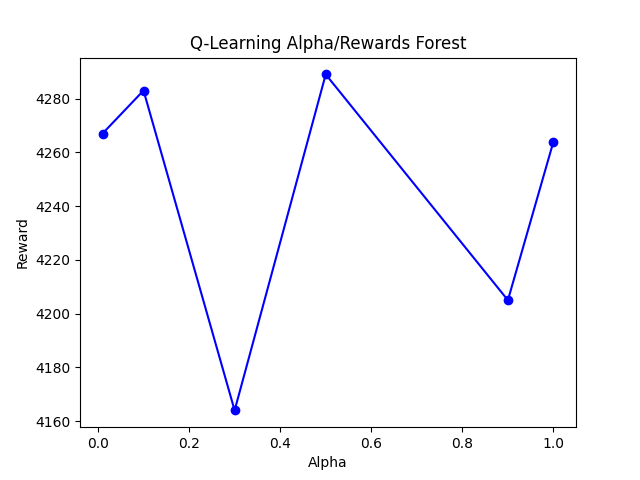
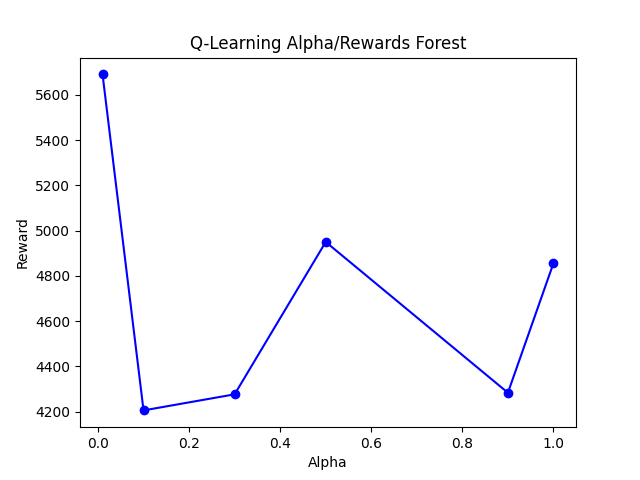
update figures

diff --git a/mdps/q_forest.py b/mdps/q_forest.py
@@ -4,12 +4,15 @@ from hiive.mdptoolbox.mdp import QLearning
 
 P, R = mdptoolbox.example.forest(
     S=500,
-    r1=4,
+    r1=100,
     r2=2,
     p=0.1,
     is_sparse=False
 )
-disc = [0.1, 0.3, 0.5, 0.7, 0.9, 2.1, 4, 5, 10]
+disc = [0.1, 0.3, 0.5, 0.7, 0.9]
+# ep = [1.0, 0.9, 0.5, 0.3, 0.1, 0.01]
+ep = [0.00099, 0.001, 0.005, 0.01, 0.03]
+alpha = [1.0, 0.9, 0.5, 0.3, 0.1, 0.01]
 
 results = []
 for d in disc:
@@ -34,16 +37,15 @@ plot_rewards(
     'q_learning_discount_rewards_forest', 'Discount'
 )
 
-ep = [1.0, 0.9, 0.5, 0.3, 0.1, 0.01]
 
 results = []
 for e in ep:
     ql = QLearning(
         P, # transitions
         R, # rewards
-        0.9, # discount
+        0.7, # discount
         alpha=0.1, alpha_decay=0.99, alpha_min=0.001,
-        epsilon=e, epsilon_min=0.1, epsilon_decay=0.99,
+        epsilon=e, epsilon_min=0.000001, epsilon_decay=0.99,
         n_iter=10000, skip_check=False, iter_callback=None,
         run_stat_frequency=None
     )
@@ -59,14 +61,13 @@ plot_rewards(
     'q_learning_epsilon_rewards_forest', 'Epsilon'
 )
 
-alpha = [1.0, 0.9, 0.5, 0.3, 0.1, 0.01]
 
 results = []
 for a in alpha:
     ql = QLearning(
         P, # transitions
         R, # rewards
-        0.9, # discount
+        0.7, # discount
         alpha=a, alpha_decay=0.99, alpha_min=0.001,
         epsilon=0.5, epsilon_min=0.1, epsilon_decay=0.99,
         n_iter=10000, skip_check=False, iter_callback=None,

diff --git a/mdps/q_other.py b/mdps/q_other.py
@@ -6,7 +6,9 @@ from helpers.plot_graphs import plot_rewards
 ex = OpenAI_MDPToolbox('FrozenLake-v0', False)
 P = ex.P
 R = ex.R
-disc = [0.1, 0.3, 0.5, 0.7, 0.9, 2.1, 4, 5, 10]
+disc = [0.1, 0.3, 0.5, 0.7, 0.9]
+ep = [0.00099, 0.001, 0.005, 0.01, 0.03]
+alpha = [1.0, 0.9, 0.5, 0.3, 0.1, 0.01]
 
 results = []
 for d in disc:
@@ -31,16 +33,15 @@ plot_rewards(
     'q_learning_discount_rewards_frozenlake', 'Discount'
 )
 
-ep = [1.0, 0.9, 0.5, 0.3, 0.1, 0.01]
 
 results = []
 for e in ep:
     ql = QLearning(
         P, # transitions
         R, # rewards
-        0.9, # discount
+        0.55, # discount
         alpha=0.1, alpha_decay=0.99, alpha_min=0.001,
-        epsilon=e, epsilon_min=0.1, epsilon_decay=0.99,
+        epsilon=e, epsilon_min=0.000001, epsilon_decay=0.99,
         n_iter=10000, skip_check=False, iter_callback=None,
         run_stat_frequency=None
     )
@@ -56,14 +57,13 @@ plot_rewards(
     'q_learning_epsilon_rewards_frozenlake', 'Epsilon'
 )
 
-alpha = [1.0, 0.9, 0.5, 0.3, 0.1, 0.01]
 
 results = []
 for a in alpha:
     ql = QLearning(
         P, # transitions
         R, # rewards
-        0.9, # discount
+        0.55, # discount
         alpha=a, alpha_decay=0.99, alpha_min=0.001,
         epsilon=0.5, epsilon_min=0.1, epsilon_decay=0.99,
         n_iter=10000, skip_check=False, iter_callback=None,

diff --git a/mdps/policy_forest.py b/mdps/policy_forest.py
@@ -7,7 +7,7 @@ ep = [0.00099, 0.001, 0.005, 0.01, 0.03]
 
 P, R = mdptoolbox.example.forest(
     S=500,
-    r1=4,
+    r1=100,
     r2=2,
     p=0.1,
     is_sparse=False
@@ -19,7 +19,6 @@ for d in disc:
         P, # transitions
         R, # rewards
         d, # discount
-        # epsilon=0.01,
         max_iter=1000,
     )
     pi.run()
@@ -27,7 +26,6 @@ for d in disc:
     print('policy iteration iterations:', pi.iter)
     print('policy iteration time:', pi.time)
     print('policy iteration best policy:', pi.policy)
-    print('############################', pi.run_stats)
     results.append(pi)
 
 plot_rewards(
@@ -40,7 +38,7 @@ for e in ep:
     # pi = PolicyIterationModified(
         P, # transitions
         R, # rewards
-        0.3, # discount
+        0.9, # discount
         # epsilon=e,
         max_iter=1000,
     )

diff --git a/mdps/value_forest.py b/mdps/value_forest.py
@@ -7,7 +7,7 @@ ep = [0.00099, 0.001, 0.005, 0.01, 0.03]
 
 P, R = mdptoolbox.example.forest(
     S=500,
-    r1=4,
+    r1=100,
     r2=2,
     p=0.1,
     is_sparse=False
@@ -18,7 +18,7 @@ for d in disc:
         P,
         R,
         d,
-        epsilon=0.01,
+        epsilon=0.001,
         max_iter=1000
     )
     vi.run()
@@ -38,7 +38,7 @@ for e in ep:
     vi = ValueIteration(
         P,
         R,
-        0.3,
+        0.9,
         epsilon=e,
         max_iter=1000
     )

diff --git a/mdps/value_other.py b/mdps/value_other.py
@@ -15,7 +15,7 @@ for d in disc:
         P,
         R,
         d,
-        epsilon=0.01,
+        epsilon=0.001,
         max_iter=1000
     )
     vi.run()
@@ -35,7 +35,7 @@ for e in ep:
     vi = ValueIteration(
         P,
         R,
-        0.3,
+        0.9,
         epsilon=e,
         max_iter=1000
     )

diff --git a/mdps/policy_other.py b/mdps/policy_other.py
@@ -36,7 +36,7 @@ for e in ep:
     # pi = PolicyIterationModified(
         P, # transitions
         R, # rewards
-        0.3, # discount
+        0.9, # discount
         # epsilon=e,
         max_iter=1000,
     )
